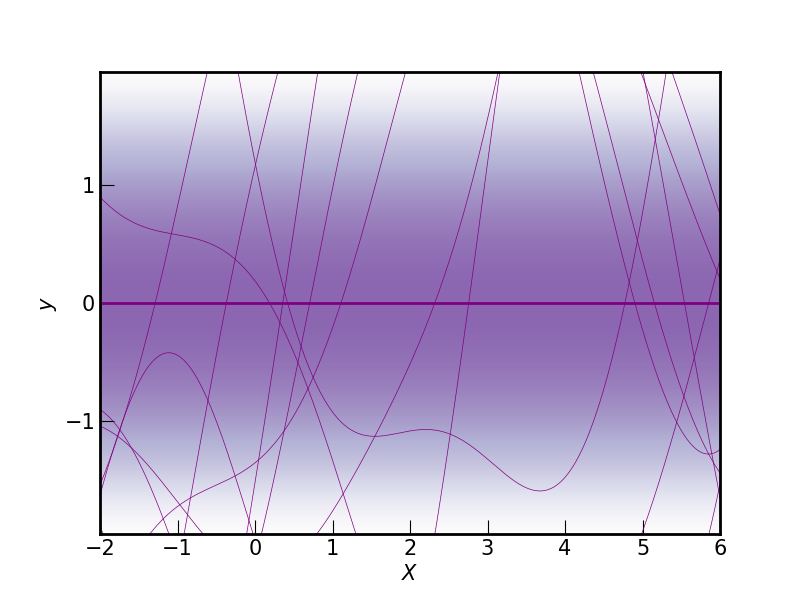
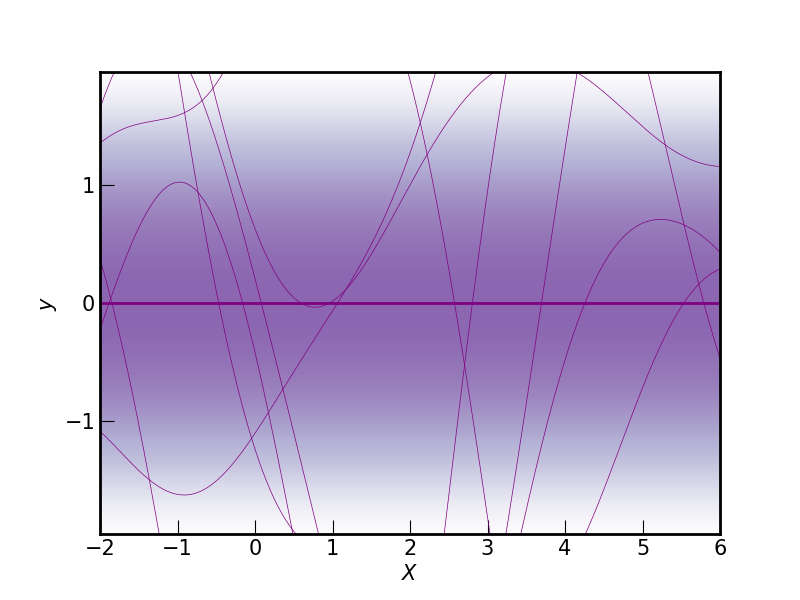
added cg solver to gp class

diff --git a/src/solver/classic/cg.py b/src/solver/classic/cg.py
@@ -1,6 +1,6 @@
 import numpy as np
-from src.solver.solver import Solver
 from src.utils.utils import timing
+from src.solver.solver import Solver
 
 
 class CG(Solver):
@@ -15,25 +15,27 @@ class CG(Solver):
     def solve(self):
         """
         Conjugate Gradient Method
-
         """
+        if self.A is None or self.b is None:
+            raise ValueError("Matrix A and vector b must be set before solving.")
 
-        self.x = np.zeros(self.N)                                       # initial solution guess
-        r = self.b - self.A @ self.x                                    # initial residual
-        d = r.copy()                                                    # initial search direction
-        delta_new: float = r.T @ r                                      # initial squared residual
-        i: int = 0                                                      # iteration counter
-        while (np.sqrt(delta_new) > self.tol) and (i < self.maxiter):   # start CG method
-            q = self.A @ d                                              # matrix-vector product Ad
-            alpha: float = delta_new / (d.T @ q)                        # step size
-            self.x = self.x + alpha * d                                 # update solution
-            r = r - alpha * q                                           # update residual
-            delta_old: float = delta_new                                # save old squared residual
-            delta_new = r.T @ r                                         # new squared residual
-            beta: float = delta_new / delta_old                         # calculate beta
-            d = r + beta * d                                            # update search direction
-            i += 1                                                      # update iteration counter
-            if i == self.maxiter:                                       # convergence criteria
-                self.iters = self.maxiter                               # maximum number of iterations needed
-                raise BaseException("no convergence")                   # no convergence
-        self.iters = i                                                  # save number of iterations needed
+        self.x = np.zeros(self.N)  # initial solution guess
+        r = self.b - self.A @ self.x  # initial residual
+        d = r.copy()  # initial search direction
+        delta_new: float = r.T @ r  # initial squared residual
+        i: int = 0  # iteration counter
+        while (np.sqrt(delta_new) > self.tol) and (i < self.maxiter):  # start CG method
+            q = self.A @ d  # matrix-vector product Ad
+            alpha: float = delta_new / (d.T @ q)  # step size
+            self.x = self.x + alpha * d  # update solution
+            r = r - alpha * q  # update residual
+            delta_old: float = delta_new  # save old squared residual
+            delta_new = r.T @ r  # new squared residual
+            beta: float = delta_new / delta_old  # calculate beta
+            d = r + beta * d  # update search direction
+            i += 1  # update iteration counter
+            if i == self.maxiter:  # convergence criteria
+                self.iters = self.maxiter  # maximum number of iterations needed
+                raise RuntimeError("No convergence.")  # no convergence
+        self.iters = i  # save number of iterations needed
+

diff --git a/src/solver/solver.py b/src/solver/solver.py
@@ -1,7 +1,6 @@
 import numpy as np
 from src.utils.utils import timing
 
-
 class Solver:
 
     def __init__(self):
@@ -12,6 +11,8 @@ class Solver:
 
     @timing
     def solve(self):
+        if self._A is None or self._b is None:
+            raise ValueError("Matrix A and vector b must be set before solving.")
         self._x = np.linalg.solve(self._A, self._b)
 
     @property
@@ -53,4 +54,6 @@ class Solver:
 
     @property
     def condA(self):
+        if self._A is None:
+            raise ValueError("Matrix A must be set to calculate condition number.")
         return np.linalg.cond(self._A)

diff --git a/src/gpr/gaussian_process.py b/src/gpr/gaussian_process.py
@@ -56,7 +56,9 @@ class GP:
 
         # NEW
         self.solver.set_lse(A=K_, b=self.y_train)
-        self.solver.solve()
+        # self.solver.solve()
+        self.solver.python_cg
+        print(self.solver.x)
         self.alpha = self.solver.x
 
         # OLD (CHOLESKY)

diff --git a/examples/example_gpr.py b/examples/example_gpr.py
@@ -17,8 +17,8 @@ kernel = RBFKernel(theta=[1.0, 1.0])
 eps = 0.1
 
 # choose solver
-solver = Solver()
-# solver = CG()
+# solver = Solver()
+solver = CG()
 
 # create GP model
 model = GP(kernel=kernel,
